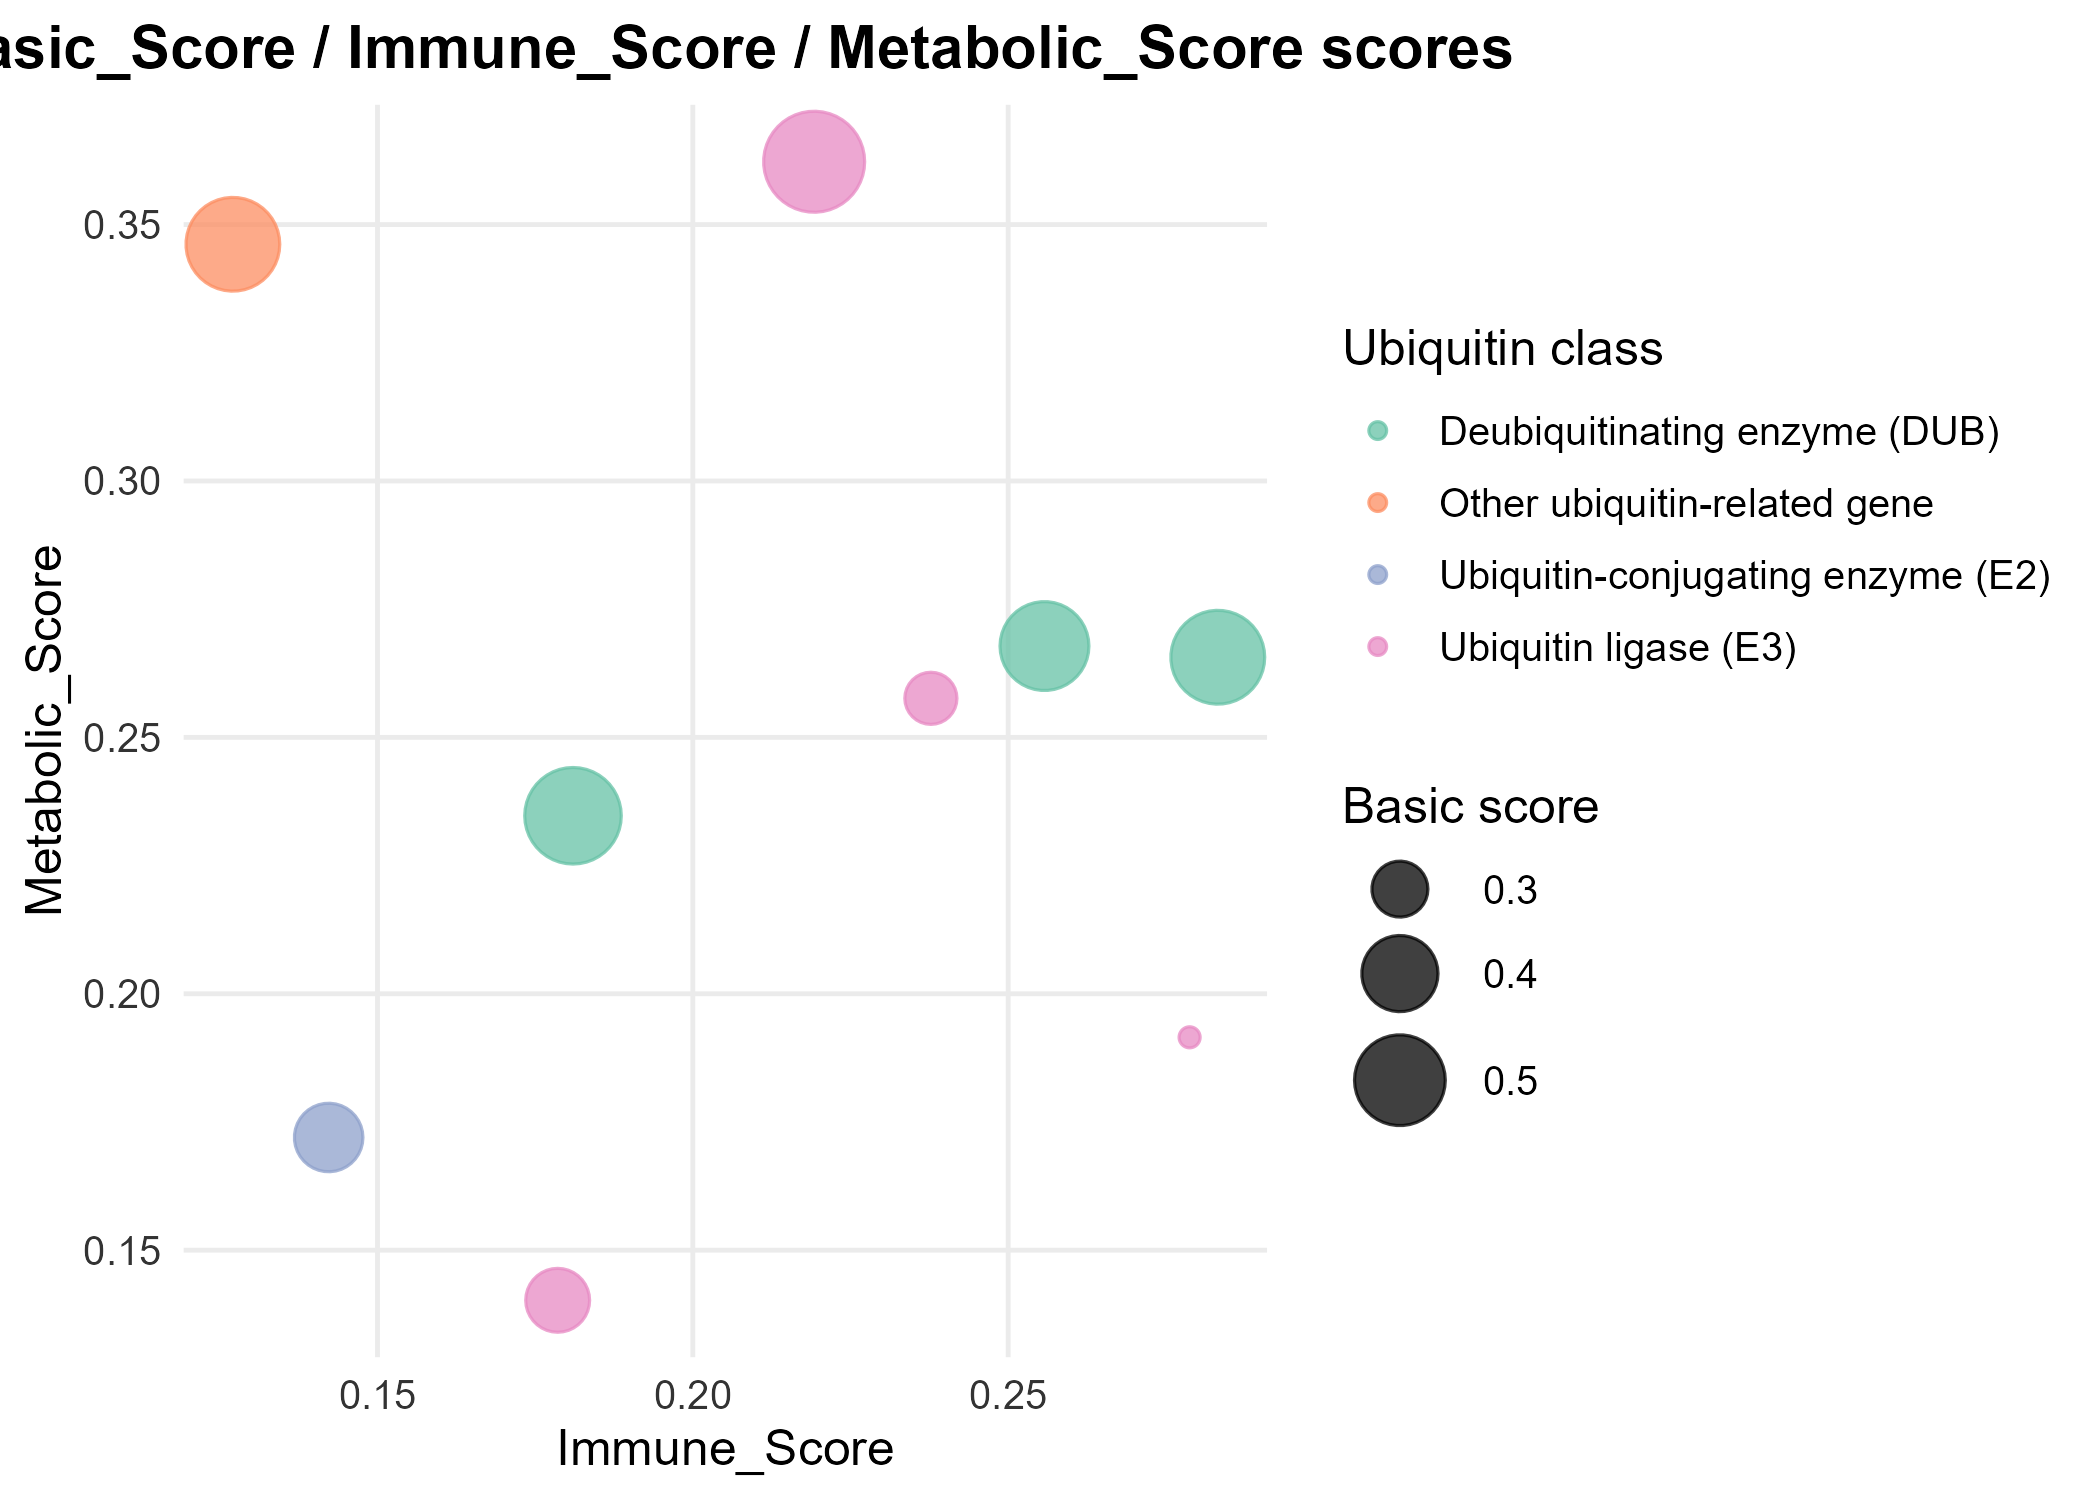
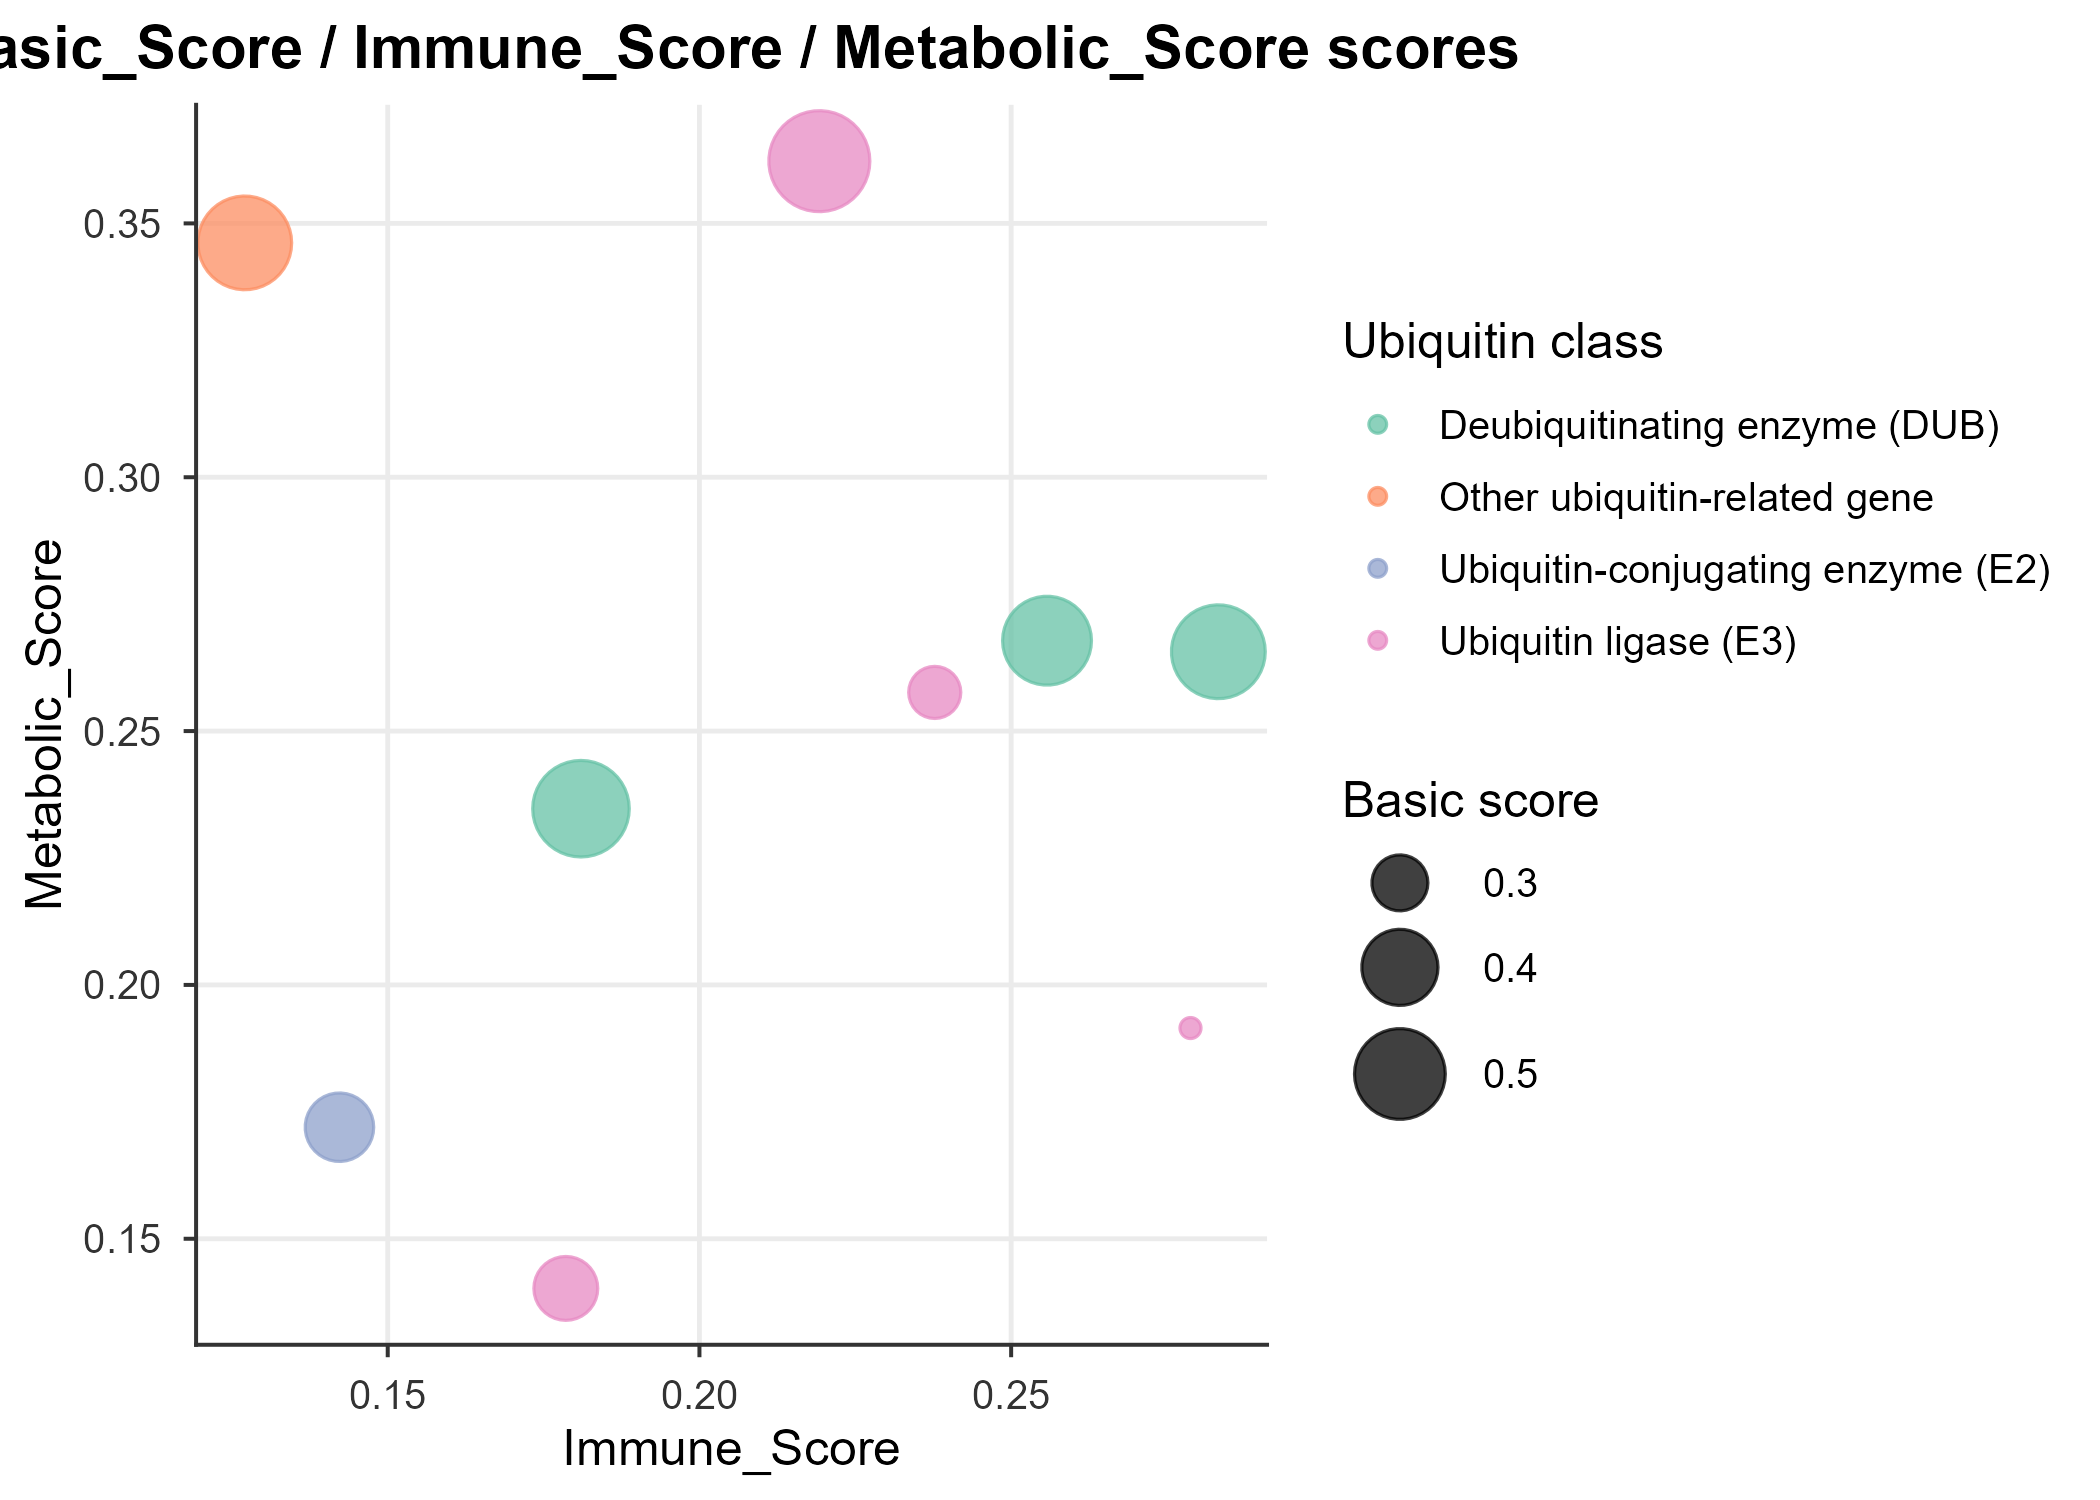
v0.5.7: draw x/y axis lines and ticks in all plots
- The shared theme .theme_ubi() now adds the x / y axis lines and tick marks
  (keeping the light grid background), so every figure clearly shows its axes
  like a classic journal figure. A new axes = FALSE switch is used by the tile
  heatmaps (score / correlation / faceted) and the polar radar chart, which have
  no cartesian axes.
- Applies to the R package figures and to the Shiny web app. The pre-rendered
  box / ROC / KM PNG cache (inst/extdata/plotcache, 1405 panels) and the README
  example gallery were rebuilt with the new theme.
- Tests: 80 PASS / 0 FAIL (unchanged behaviour, plotting-only change).

diff --git a/NEWS.md b/NEWS.md
@@ -1,3 +1,12 @@
+## 0.5.7 (2026-10-05)
+- Plots: the shared theme now draws the x / y axis lines and tick marks (the
+  light grid background is kept), so every figure clearly shows its axes like a
+  classic journal figure. Tile heatmaps (gene x cancer score / correlation) and
+  the polar radar chart are excluded, since they have no cartesian axes.
+- The change applies to the R package figures and to the Shiny web app; the
+  pre-rendered box / ROC / KM PNG cache (inst/extdata/plotcache) and the README
+  example gallery were rebuilt with the new theme.
+
 ## 0.5.6 (2026-10-05)
 - Web app: every result table now offers a "Download details (CSV)" button in
   addition to the Excel export. The detail file lists, for each gene x cancer,
